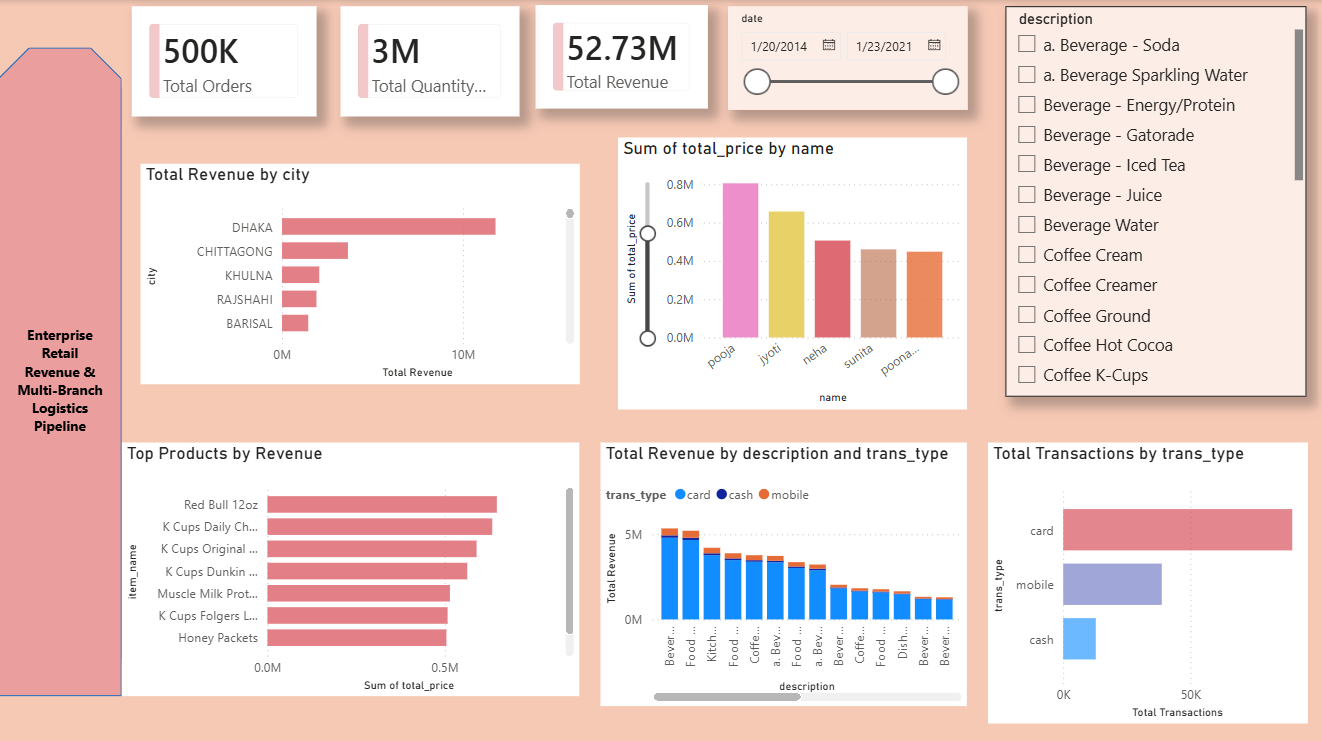
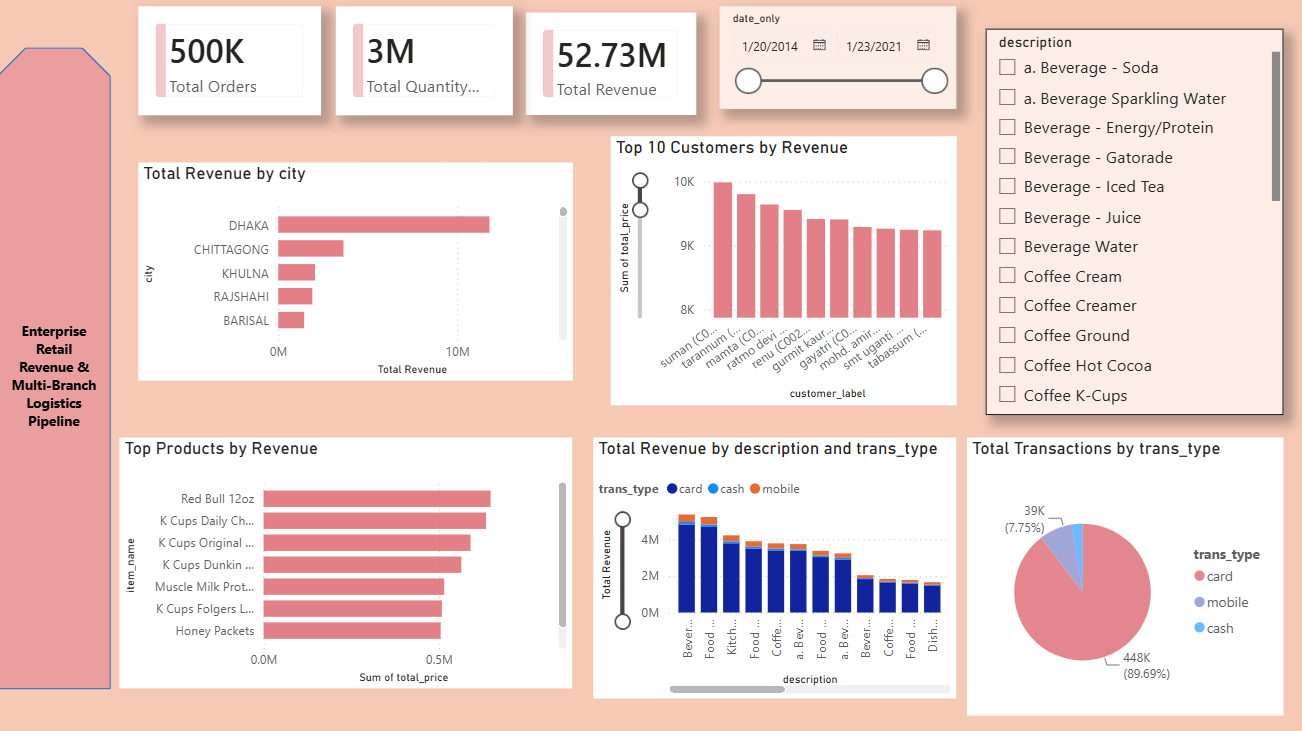
changes

diff --git a/README.md b/README.md
@@ -1,6 +1,6 @@
 # Enterprise Retail Revenue & Multi-Branch Logistics Pipeline
 
-An end-to-end analytics project on a retail **star schema** (1 fact table + 5 dimension tables, ~500K transactions). Raw CSVs are loaded into **SQL Server** with a validated ETL process, analyzed with **T-SQL**, and presented in an interactive **Power BI** dashboard.
+An end-to-end analytics project on a retail **star schema** (1 fact table + 5 dimension tables, ~500K transactions). Raw CSVs are loaded into **SQL Server** with a validated ETL process, cleaned with **T-SQL views**, analyzed with SQL, and presented in an interactive **Power BI** dashboard with **dynamic row-level security** by city.
 
 ![Dashboard](powerbi/dashboard.png)
 
@@ -12,15 +12,18 @@ The goal is to answer core business questions for a multi-branch retailer:
 - Who are the highest-spending and most frequent customers?
 - How do sales change over time (month, year, trend)?
 - Which payment methods do customers prefer?
+- How can each regional manager see only their own city's data?
 
 ## Tech Stack
 
 | Layer | Tools |
 |---|---|
-| Database | Microsoft SQL Server (T-SQL) |
+| Database | Microsoft SQL Server Express (T-SQL) |
 | ETL | `BULK INSERT`, staging tables, `TRY_CAST` |
+| Data cleaning | SQL views (`CROSS APPLY`, `PATINDEX`, `TRY_CONVERT`) |
 | Analysis | Joins, aggregations, star-schema queries |
-| Visualization | Power BI |
+| Visualization | Power BI (Power Query, DAX) |
+| Security | Dynamic row-level security (`USERPRINCIPALNAME()`) |
 
 ## Data Model
 
@@ -32,6 +35,8 @@ item_dim ─────┤
 store_dim ────┼──── fact_table (quantity, unit_price, total_price)
 time_dim ─────┤
 payment_dim ──┘
+
+user_city_map  (standalone table used only by the security role, no relationships)
 ```
 
 | Table | Key columns |
@@ -42,15 +47,67 @@ payment_dim ──┘
 | `store_dim` | store_key, country, city, upazila |
 | `time_dim` | time_key, date, hour, day, week, month, quarter, year |
 | `payment_dim` | payment_key, trans_type (card / cash / mobile), bank_name |
+| `user_city_map` | user_email, city (maps each user to the cities they may see) |
 
 ## ETL & Data Quality Steps
 
-1. **Schema design:** created dimension and fact tables with primary keys and indexes on every foreign-key column.
+1. **Schema design:** created dimension and fact tables with primary keys and indexes on every foreign-key column of the fact table.
 2. **Staging tables:** loaded `time_dim` and `fact_table` through temp staging tables so data types could be converted safely with `TRY_CAST`.
 3. **Cleaning currency values:** stripped `$` and `,` characters from price columns before casting to `NUMERIC`.
-4. **Quoted CSV handling:** reloaded `item_dim` with `FORMAT = 'CSV'` because product descriptions contain commas.
-5. **Missing keys:** found item keys in the fact table with no match in `item_dim` and added placeholder rows so no transactions were dropped.
-6. **Referential integrity:** added foreign keys only after validation, and ran orphan-record checks (`03_verification.sql`).
+4. **Quoted CSV handling:** reloaded `item_dim` with `FORMAT = 'CSV'` and `FIELDQUOTE = '"'` because product descriptions contain commas.
+5. **Missing keys:** the first load left item keys in the fact table with no match in `item_dim`, so placeholder rows were inserted as a safeguard. The quote-aware reload of `item_dim` (step 4) then loaded the full item list, and the foreign key was added and validated against it.
+6. **Referential integrity:** added foreign keys only after validation, and ran row-count and orphan-record checks (`03_verification.sql`).
+
+## Data Quality Issues & How They Were Handled
+
+Profiling the raw tables in SQL and Power Query showed several issues in `customer_dim` and `time_dim`. The raw tables are left untouched; cleaning happens in views (`sql/04_clean_views.sql`) that Power BI reads from.
+
+| Issue | Where | Handling |
+|---|---|---|
+| NULL or blank names | `customer_dim.name` | Replaced with `Unknown Customer` |
+| Stray double quotes | `customer_dim.name` | Removed with `REPLACE` |
+| Address / relation text inside names (`s/o`, `d/o`, `w/o`, `r/o`, `c/o`) | `customer_dim.name` | Name cut off at the marker using `PATINDEX` |
+| Alias markers (`name @ alias`, `name@alias`) | `customer_dim.name` | Name cut off at `@` |
+| Non-numeric text in the phone column (rows shifted by commas in the source CSV) | `customer_dim.contact_no` | Valid only if 10 to 13 digits, otherwise NULL, with an `is_contact_valid` flag (17 rows flagged) |
+| Date stored as text (`dd-mm-yyyy hh:mm`) | `time_dim.date` | Converted with `TRY_CONVERT(..., 105)` |
+| Empty `week` column | `time_dim.week` | Derived with `DATEPART(ISO_WEEK, ...)` |
+
+**Validation:** the views return the same row counts as the raw tables, and a check for dates that fail to parse is included in `04_clean_views.sql`. A few unusual name formats can still remain, since the cleaning handles the common patterns.
+
+**Same-name customers:** many different customers share a name, so the SQL queries group by `customer_key`, and the dashboard's Top 10 Customers chart uses a `customer_label` column (name plus customer key) so people with the same name are not combined.
+
+## Row-Level Security (Dynamic)
+
+Each regional manager sees only the cities they are mapped to.
+
+- The mapping table `user_city_map (user_email, city)` lives in SQL Server (`sql/05_rls_mapping.sql`) and is loaded into the model with no relationships.
+- One role, `CityManager`, filters `store_dim`:
+
+```dax
+CONTAINS(
+    user_city_map,
+    user_city_map[user_email], USERPRINCIPALNAME(),
+    user_city_map[city], store_dim[city]
+)
+```
+
+- The filter flows `store_dim → fact_table`, so every visual (KPIs, products, payment split, customers) respects it.
+- Changing access only means editing rows in `user_city_map`; the report is untouched.
+
+**Tested with Modeling → View as:**
+
+| View | Total Orders | Total Quantity | Total Revenue | Cities shown |
+|---|---|---|---|---|
+| No role (all data) | ~500K | ~3M | 52.73M | All |
+| `dhaka.manager@company.com` | 112K | 672K | 11.80M | Dhaka only |
+| `regional.head@company.com` | 131K | 788K | 13.85M | Dhaka and Khulna |
+| `nobody@example.com` (not in the mapping table) | blank | blank | blank | None |
+
+Dhaka accounts for about 22% of total revenue.
+
+![RLS test: Dhaka manager](powerbi/rls_dhaka.png)
+
+> Row-level security is enforced in the Power BI Service. In Power BI Desktop it is simulated with "View as". The emails in `user_city_map` are sample values.
 
 ## Key Numbers (from the dashboard)
 
@@ -58,16 +115,17 @@ payment_dim ──┘
 - **~3M** units sold
 - **52.73M** total revenue
 - Date range: **Jan 2014 to Jan 2021**
-- **Dhaka** is the top city by revenue, followed by Chittagong and Khulna
-- **Card** is the most-used payment type, followed by mobile and cash
+- **Dhaka** is the top city by revenue (11.80M), followed by Chittagong, Khulna, Rajshahi and Barisal
+- **Card** is the most-used payment type (~448K transactions, 89.7%), followed by mobile (~39K, 7.8%) and cash
 
 ## Dashboard Features
 
 - KPI cards: total orders, total quantity, total revenue
 - Date range slider and product-category filter
-- Revenue by city, top customers, top products
+- Revenue by city, top 10 customers, top products
 - Revenue by category split by payment type
 - Transactions by payment type
+- Dynamic row-level security by city
 
 ## Repository Structure
 
@@ -76,13 +134,18 @@ payment_dim ──┘
 ├── .gitignore
 ├── powerbi/
 │   ├── dashboard.png              # dashboard screenshot
+│   ├── rls_dhaka.png              # security test screenshot
+│   ├── rls_multi_city.png         # security test screenshot
+│   ├── rls_unlisted.png           # security test screenshot
 │   └── Ecomm_sales_dashboard.pbix # Power BI file
 ├── data/                          # CSVs not included (see Dataset)
 └── sql/
     ├── 01_schema_ddl.sql          # tables, keys, indexes
     ├── 02_load_data.sql           # ETL / bulk load
     ├── 03_verification.sql        # row counts, orphan checks, item_dim reload
-    └── 04_queries.sql             # business analysis queries
+    ├── 04_clean_views.sql         # cleaning views for customers and time
+    ├── 05_rls_mapping.sql         # user_city_map table for dynamic RLS
+    └── 06_queries.sql             # business analysis queries (uses the clean views)
 ```
 
 ## How to Run
@@ -90,17 +153,19 @@ payment_dim ──┘
 1. Download the dataset (see below) and place the CSVs in `data/`.
 2. Create a database: `CREATE DATABASE ecommerce_db;`
 3. Update the file paths in `sql/02_load_data.sql` and `sql/03_verification.sql`.
-4. Run the scripts in order: `01` → `02` → `03` → `04`.
-5. Open `powerbi/Ecomm_sales_dashboard.pbix` in Power BI Desktop and point the data source to your `ecommerce_db` (Transform data → Data source settings), or connect a new report to the database.
+4. Run the scripts in order: `01` → `02` → `03` → `04` → `05` → `06`. The queries in `06` use the views created in `04`, so keep this order.
+5. Open `powerbi/Ecomm_sales_dashboard.pbix` in Power BI Desktop and point the data source to your `ecommerce_db` (Transform data → Data source settings). The `customer_dim` and `time_dim` queries read from `vw_customer_dim_clean` and `vw_time_dim_clean`.
+6. To test security, go to Modeling → View as → Other user, enter an email from `user_city_map`, and tick the `CityManager` role.
 
 ## Dataset
 
 Source: **"ECommerce Data Analysis"** dataset on Kaggle (6 tables: 1 fact, 5 dimensions).
-Link: `<https://www.kaggle.com/datasets/mmohaiminulislam/ecommerce-data-analysis>`
+Link: <https://www.kaggle.com/datasets/mmohaiminulislam/ecommerce-data-analysis>
 
-The dataset is publicly available and credited to its original author. The SQL scripts, ETL process and dashboard in this repo are my own work built on top of it.
+The dataset is publicly available and credited to its original author. The SQL scripts, ETL process, cleaning views, security model and dashboard in this repo are my own work built on top of it.
+
 
 ## Author
 
-**<Your Name>**
-[LinkedIn](<https://www.linkedin.com/in/harshita-jawaharmalani-2568b32aa>) · [GitHub](<https://github.com/harshitajawaharmalani>)
+**Harshita Jawaharmalani**
+[LinkedIn](https://www.linkedin.com/in/harshita-jawaharmalani-2568b32aa) · [GitHub](https://github.com/harshitajawaharmalani)
